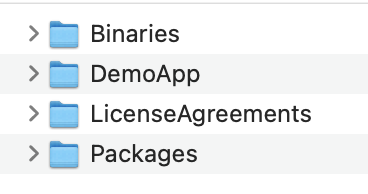
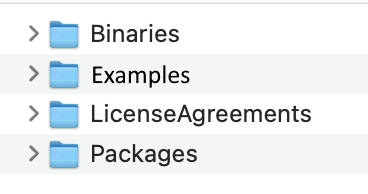
update images

Changed region(s): [[0.2391, 0.3093, 0.5679, 0.4639]]

diff --git a/demos-and-sample-apps/maui-demo-app.md b/demos-and-sample-apps/maui-demo-app.md
@@ -36,7 +36,7 @@ The SDKBrowser folder is inside the installation folder. The Installation folder
 ![Telerik UI for .NET MAUI Installation Folder](../images/telerik-ui-for-maui-installation-folder.png)
 
 * Binaries - Contains the needed dlls for Android, iOS and WinUI
-* **SDKBrowser** - SDKBrowser app with Telerik UI for .NET MAUI controls
+* **Examples** - SDK app with Telerik UI for .NET MAUI controls
 * LicenseAgreements - provides the product EULA.
 * Packages - Telerik_UI_for_Maui_[version]_Preview.nupkg file
 
@@ -51,7 +51,7 @@ The SDKBrowserMaui folder is inside the installation folder. The installation fo
 ![Telerik UI for .NET MAUI Installation Folder](../images/installation-macos.png)
 
 * Binaries - Contains the needed dlls for Android, iOS and WinUI
-* **SDKBrowser** - SDKBrowserMaui App with Telerik UI for .NET MAUI controls
+* **Examples** - SDK App with Telerik UI for .NET MAUI controls
 * LicenseAgreements - provides the product EULA.
 * Packages - Telerik_UI_for_Maui_[version]_Preview.nupkg file
 

diff --git a/maui-getting-started.md b/maui-getting-started.md
@@ -62,7 +62,7 @@ The installation folder has the following subdirectories:
 ![Telerik UI for MAUI Installation Folder](images/telerik-ui-for-maui-installation-folder.png)
 
 * Binaries - Contains the needed dlls for Android and iOS 
-* SDKBrowser - Demo App with Telerik UI for .NET MAUI controls
+* Examples - SDK App with Telerik UI for .NET MAUI controls
 * LicenseAgreements - provides the product EULA.
 * Packages - Telerik_UI_for_Maui_[version]_Preview.nupkg file
 
@@ -75,7 +75,7 @@ The installation folder has the following subdirectories:
 ![Telerik UI for .NET MAUI Installation Folder](images/installation-macos.png)
 
 * Binaries - Contains the needed dlls for Android and iOS 
-* SDKBrowser - Demo App with Telerik UI for .NET MAUI controls
+* Examples - SDK App with Telerik UI for .NET MAUI controls
 * LicenseAgreements - provides the product EULA.
 * Packages - Telerik_UI_for_Maui_[version]_Preview.nupkg file
 
